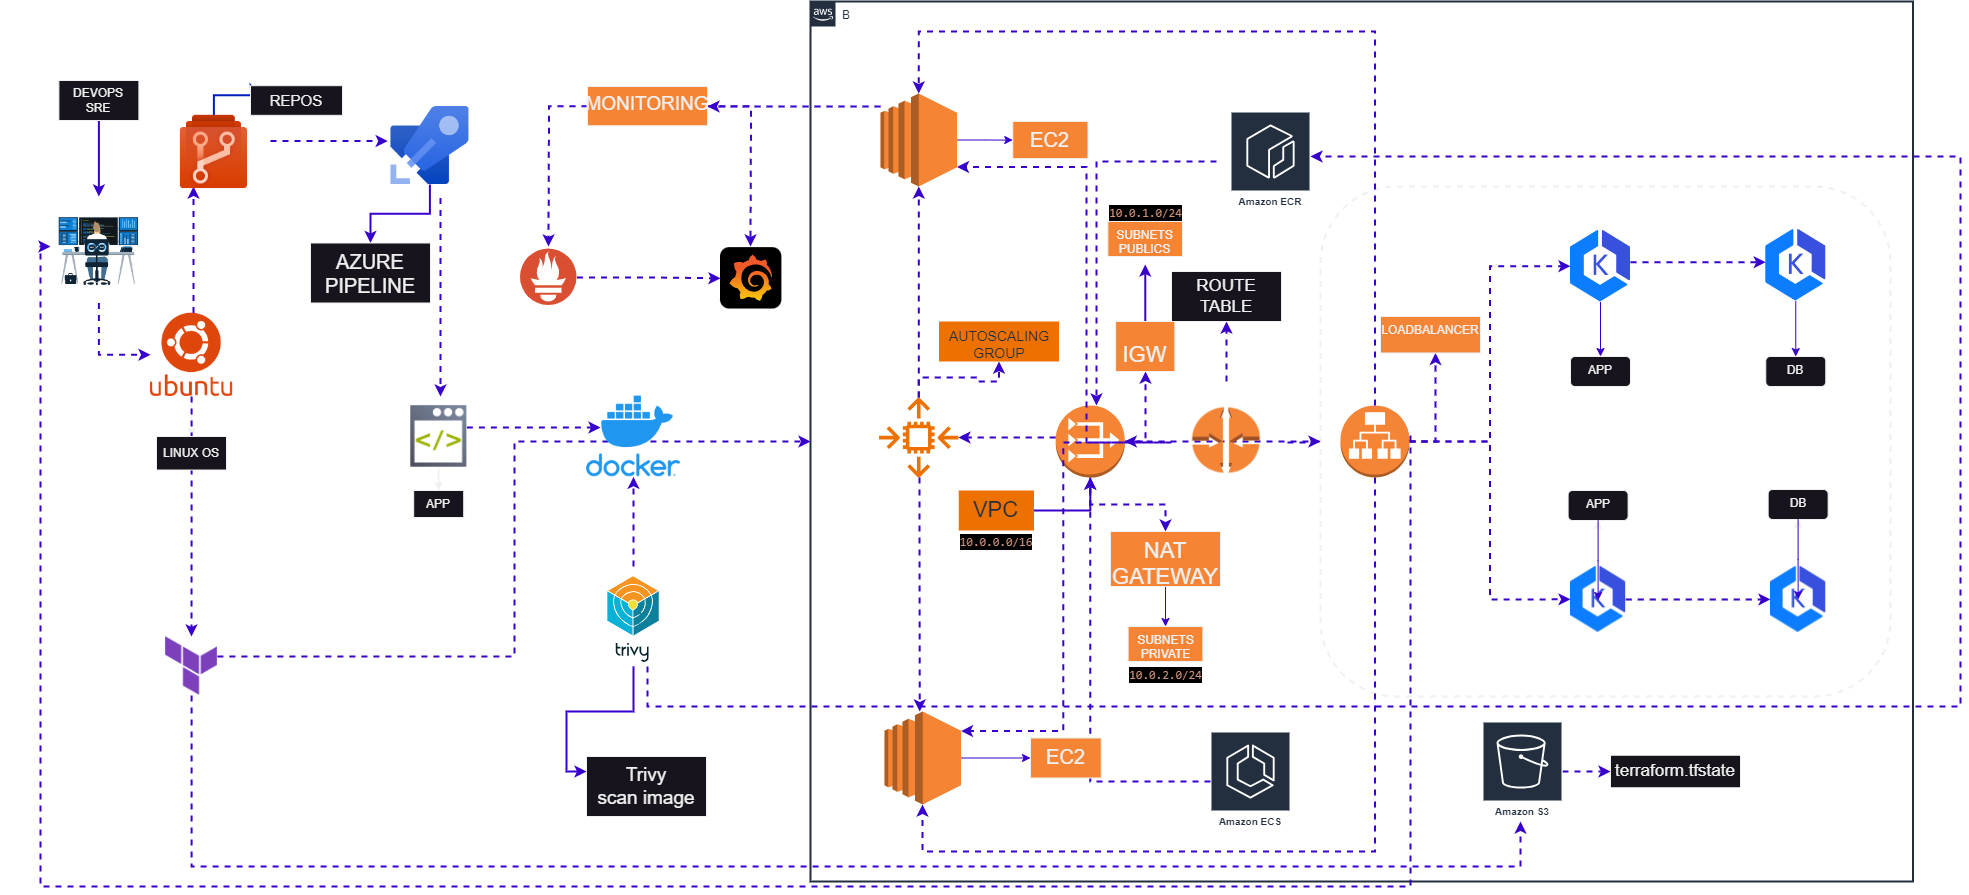
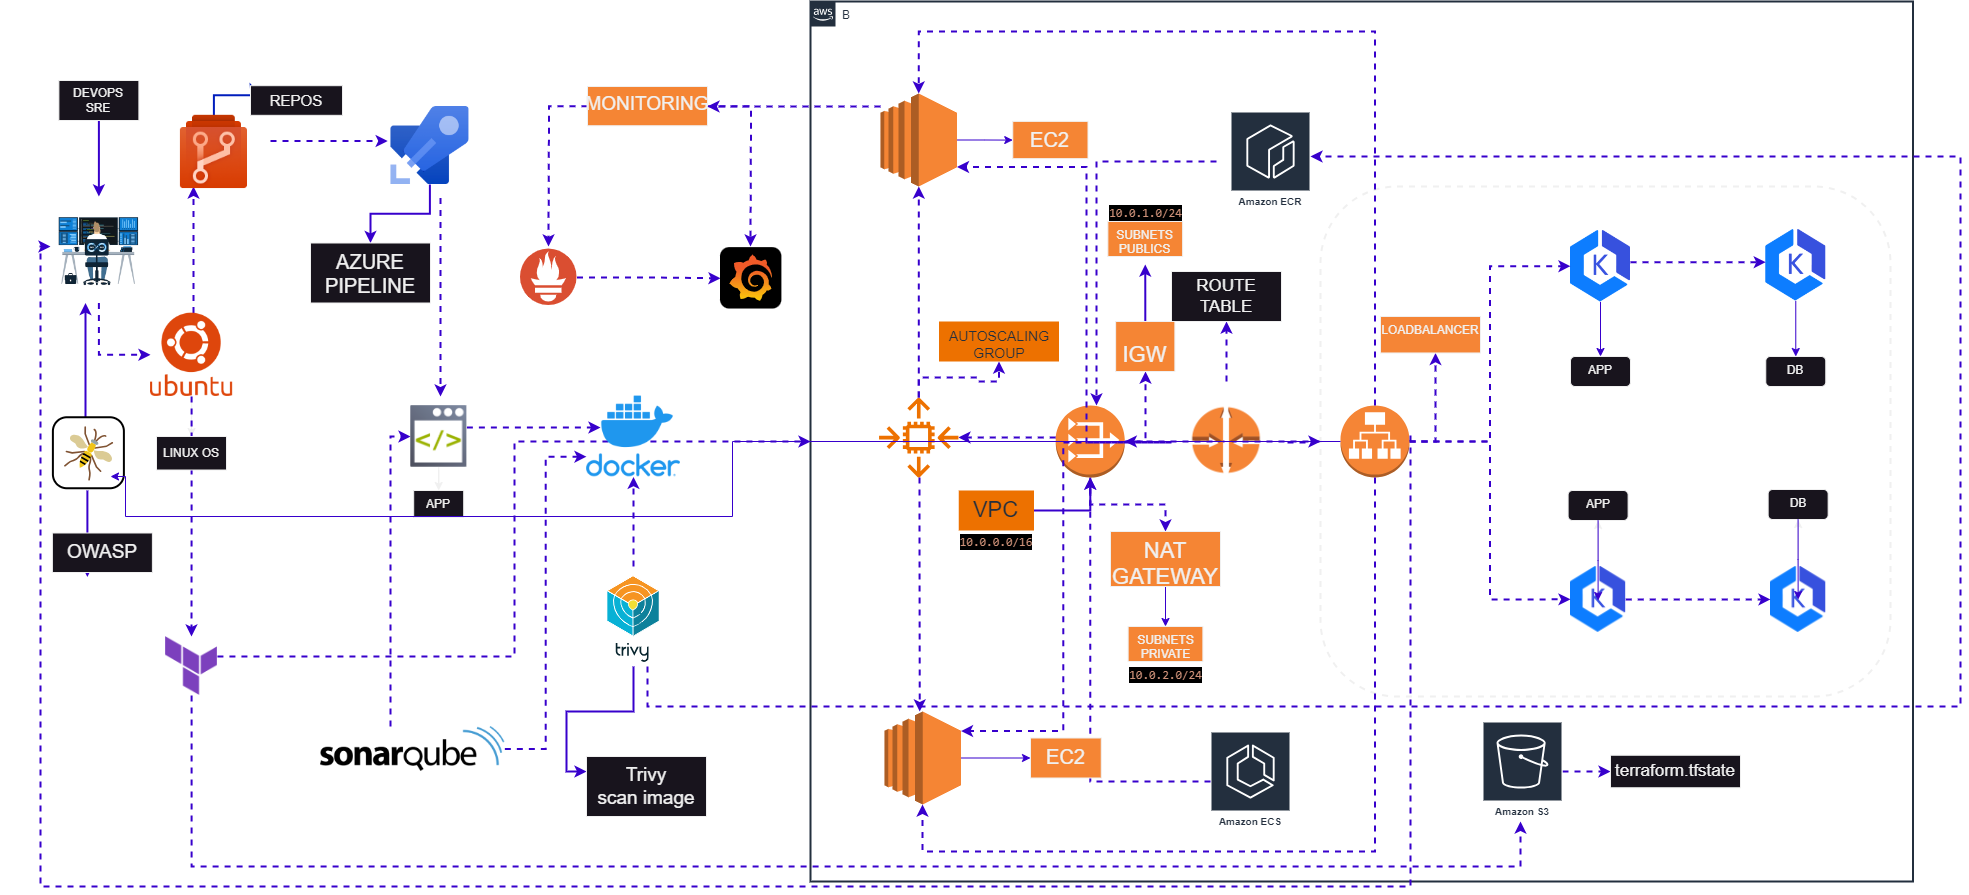
doc: modificado o README

Changed region(s): [[0.0, 0.4525, 0.0929, 0.6637], [0.1549, 0.8145, 0.2788, 0.8749]]

diff --git a/README.md b/README.md
@@ -77,6 +77,10 @@ O Docker Scout é utilizado para realizar varreduras de segurança nas imagens D
 - **Trivy:**
 Integramos o Trivy ao nosso processo de construção de imagens Docker para identificar e corrigir quaisquer vulnerabilidades presentes nas dependências dos nossos contêineres. O Trivy fornece uma verificação de segurança rápida e abrangente, permitindo-nos garantir que nossas imagens Docker estejam livres de vulnerabilidades conhecidas.
 
+- **OWASP Dependency-Check**
+O OWASP Dependency-Check é uma ferramenta de segurança de código aberto amplamente utilizada para identificar e relatar as vulnerabilidades de segurança em bibliotecas de terceiros utilizadas em um projeto de software. Ele automatiza a análise das dependências de um aplicativo em busca de vulnerabilidades conhecidas, como aquelas listadas no NIST NVD (National Vulnerability Database) e em outras fontes de dados públicas.
+Em resumo, o OWASP Dependency-Check ajuda a garantir a segurança do software ao analisar as dependências utilizadas em um projeto e relatar quaisquer vulnerabilidades de segurança conhecidas nessas dependências. Isso permite que os desenvolvedores tomem medidas para corrigir ou mitigar essas vulnerabilidades, fortalecendo assim a segurança geral do aplicativo.
+
 ## Prometheus metrcis
 ![alt text](/assets/mando10.png)
 
@@ -101,6 +105,9 @@ Integramos o Trivy ao nosso processo de construção de imagens Docker para iden
 ## SonarQube diagnostic code scan for vulnerability
 ![Sonarqube](/assets/mando20.png)
 
+## OWASP Dependency-Check
+![alt tex](/assets/mando22.png)
+
 ## Bucket S3
 ![alt text](/assets/mando19.png)
 
@@ -109,7 +116,7 @@ Integramos o Trivy ao nosso processo de construção de imagens Docker para iden
 
 
 ## Links References para a documentação das tecnologias utilizadas no projeto:
-
+- [Azure DevOps](https://learn.microsoft.com/en-us/azure/devops/?view=azure-devops)
 - [AWS caculator](https://calculator.aws/#/addService)
 - [Terraform Manage AWS Auto Scaling Groups ASG](https://developer.hashicorp.com/terraform/tutorials/aws/aws-asg)
 - [Terraform Resource AWS Auto Scaling Groups ASG](https://registry.terraform.io/providers/hashicorp/aws/latest/docs/resources/autoscaling_group)
@@ -139,63 +146,3 @@ Integramos o Trivy ao nosso processo de construção de imagens Docker para iden
 - [Terraform Configuration Language Guide](https://developer.hashicorp.com/terraform/tutorials/configuration-language/variables)
 - [Workflow syntax for GitHub Actions](https://docs.github.com/en/actions/using-workflows/workflow-syntax-for-github-actions)
 - [Deploy to Amazon ECS](https://docs.github.com/en/actions/deployment/deploying-to-your-cloud-provider/deploying-to-amazon-elastic-container-service)
-
-## Liderança da Track
- Track é uma Net Promoter Score e Customer Experience Management no Brasil.
- startup brasileira fundada em 2012 na cidade de Belo Horizonte 
- e liderada por Tomás Duarte (CEO), Luiz Carvalho (CDO) e José Luiz Choucaira (CFO)
-
-## Cultura centrada no cliente: estratégia de fidelização de clientes!
-1. Definir o foco no cliente como propósito da empresa
-2. Definir valores da empresa que reflitam esse o foco no cliente
-3. Difundir com clareza as funções  e respoonsabilidades de cada um no propósito de melhorar a vida do cliente
-4. Ouvir o cliente interno da sua empresa encontrar oportunidades de melhoria e inovação
-5. Acompanhar o mercado para compreender para onde as mudanças estão indo e aproveiotar as oportunidades
-
-## Os princípios de Centralidade no Cliente da Track.co são fundamentais para sua cultura organizacional.
-
-- 1. Cordialidade: Demonstre interesse genuíno em entender as necessidades e preocupações dos clientes. Pergunte como a empresa promove uma cultura de cordialidade em todas as interações com os clientes, tanto interna quanto externamente.
-- 2. Resolutividade: Mostre sua capacidade de resolver problemas de forma eficiente e eficaz. Você pode perguntar como a empresa lida com desafios específicos de clientes e como incentiva a resolução rápida e satisfatória.
-- 3. Data driven: Destaque a importância de tomar decisões com base em dados e métricas relevantes. Questione como a empresa utiliza dados de experiência do cliente para orientar suas estratégias e melhorar continuamente seus produtos e serviços.
-- 4. Pontualidade: Enfatize a importância de cumprir prazos e compromissos com os clientes. Você pode perguntar como a empresa garante a entrega oportuna de soluções e como isso é integrado à cultura organizacional.
-- 5. Básico bem feito: Demonstre seu compromisso com a excelência em todos os aspectos do trabalho. Questione como a empresa garante a qualidade consistente em todas as etapas da jornada do cliente e como isso se reflete em seus produtos e serviços.
-
-
-Essas dimensões realmente fornecem uma estrutura sólida para uma empresa adotar um modelo centrado no cliente. É essencial que todas elas estejam em equilíbrio para garantir uma excelente experiência do cliente. Se uma delas for negligenciada, isso pode afetar negativamente toda a operação.
-
-- 1. Pessoas comprometidas: São elas que dão vida aos processos e interagem diretamente com os clientes. Se não estiverem engajadas e comprometidas, a experiência do cliente pode ser afetada negativamente.
-- 2. Processos bem estruturados: São fundamentais para garantir consistência e eficiência na entrega da experiência do cliente. Processos mal definidos podem levar a erros, atrasos e frustrações.
-- 3. Ferramentas adequadas: Tecnologia desempenha um papel crucial na entrega de uma excelente experiência do cliente. Ferramentas inadequadas podem dificultar a interação com o cliente, prejudicar a personalização e limitar a capacidade de escalar as operações.
-- 4. Gestão eficaz: Uma liderança forte e uma gestão eficaz são essenciais para garantir que a empresa esteja alinhada com as necessidades e expectativas do cliente. Decisões baseadas em dados e insights precisos ajudam a direcionar as estratégias de experiência do cliente de forma mais eficaz.
-- 5. Cultura de foco no cliente: Esta é a cola que mantém todas as outras dimensões unidas. Uma cultura empresarial que valoriza e prioriza o cliente permeia todas as áreas da organização, garantindo que o cliente esteja sempre no centro das decisões e ações.
-Ao fortalecer essas dimensões, uma empresa pode construir uma base sólida para uma estratégia de experiência do cliente sustentável a longo prazo, o que é essencial para o sucesso nos mercados cada vez mais competitivos de hoje.
-
-## Sobre a Track.co:
-- A Track.co é uma startup pioneira na metodologia de Net Promoter Score® no Brasil, especializada em indicadores de performance da Experiência do Cliente (CX).
-- Eles têm um forte histórico de impacto, atingindo mais de 200 milhões de consumidores e 1.500 marcas em diversos países.
-- A empresa oferece uma plataforma completa para rastreamento de dados de Experiência do Cliente em toda a jornada do consumidor.
-- Eles são reconhecidos por seus indicadores de performance e monitoramento de métricas de CX.
-
-# Modelo de Negocios
-
-O modelo de negócios B2B da Track.co se concentra em fornecer soluções avançadas de rastreamento e análise de dados para empresas. Este modelo é construído em torno da prestação de serviços e plataformas personalizadas que ajudam outras empresas a otimizar suas operações, tomar decisões baseadas em dados e melhorar seu desempenho geral. A Track.co trabalha em estreita colaboração com seus clientes para entender suas necessidades específicas e oferecer soluções sob medida, aproveitando tecnologias de ponta, como inteligência artificial e análise de big data. Por meio de parcerias estratégicas e um foco contínuo na inovação, a Track.co busca proporcionar valor tangível aos seus clientes, ajudando-os a impulsionar o crescimento, aumentar a eficiência e alcançar seus objetivos de negócios.
-
-## SLA, SLO e SLI: Medindo a Confiabilidade
-- SLI (Service Level Indicator): Os SLIs são métricas quantificáveis que medem a qualidade do serviço. Eles são a base para definir SLOs e, por sua vez, contribuem para os SLAs. Por exemplo, um SLI pode ser a taxa de sucesso de uma operação.
-- SLO (Service Level Objective): Os SLOs são metas específicas de desempenho que uma equipe de SRE define para cumprir os requisitos do SLA. Eles são mais detalhados e mensuráveis, contribuindo para a definição de padrões de qualidade.
-- SLA (Service Level Agreement): Um SLA é um acordo formal entre um provedor de serviço e seus usuários, definindo os níveis aceitáveis de desempenho e disponibilidade. Ele estabelece expectativas claras e ajuda a manter um padrão elevado de serviço. Os SLAs geralmente incluem métricas como tempo de atividade e tempo de resposta.
-## Ecossistema Track.co:
-- A empresa oferece uma ampla gama de serviços, incluindo pesquisas multicanais de Net Promoter Score, plataforma de CXM para o setor de saúde e análise avançada de dados de CX através de IA generativa.
--Em breve, eles lançarão ferramentas como categorização de feedbacks de clientes, geração de sumários de feedbacks e criação de planos de ação baseados nos feedbacks.
-
-## Perguntas sobre os Produtos e Ecossistema da Track.co:
-- 1.**Sobre a Plataforma de CXM para o setor de saúde:** "Gostaria de saber mais sobre como a plataforma de CXM da Track.co é adaptada para o setor de saúde e quais funcionalidades específicas ela oferece?"
-- 2. **Sobre a Análise de Dados de CX Avançada por meio de IA generativa:** "Como a análise de dados avançada por meio de IA generativa tem impactado positivamente a compreensão da experiência do cliente e as decisões estratégicas da empresa?"
-- 3. **Sobre os Próximos Lançamentos de Ferramentas de Feedback:** "Estou interessado nos próximos lançamentos, como a ferramenta de categorização de feedbacks de clientes. Como vocês veem essas novas ferramentas impactando a maneira como lidam com feedbacks e promovem melhorias na experiência do cliente?"
-- 4. **Sobre a Integração e Input de Dados:** "Como a integração e o input de dados são gerenciados na Track.co para garantir uma visão abrangente e precisa da experiência do cliente em todas as etapas da jornada?"
-  
-
-Considerações Finais:
-Certifique-se de estar familiarizado com os valores e princípios da empresa, demonstrando seu alinhamento cultural durante a entrevista.
-Prepare-se para compartilhar suas experiências relevantes em DevOps e SRE, destacando como suas habilidades podem contribuir para a missão e os objetivos da Track.co.
-Mantenha uma abordagem positiva e demonstra interesse genuíno pelo trabalho da empresa e pelos desafios que ela enfrenta no campo da experiência do cliente.
